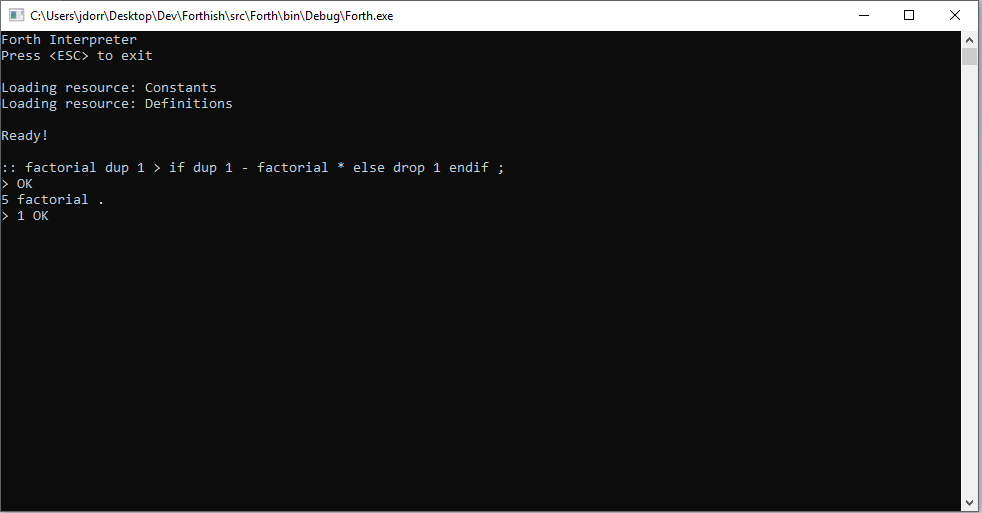
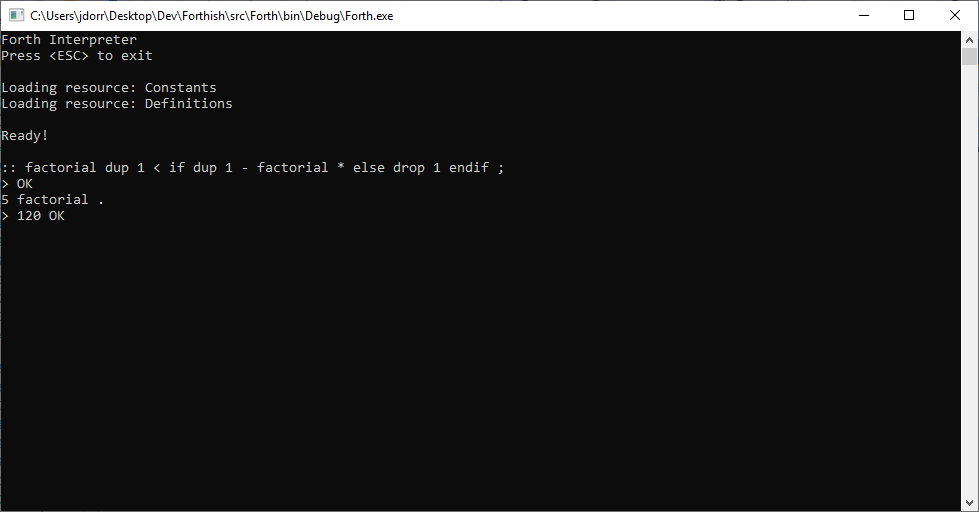
Fixing factorial program

diff --git a/README.md b/README.md
@@ -628,7 +628,7 @@ my_array 5 cells + @ .
 As previously mentioned, it is possible to call definitions recursively, but we need to have a base-case to ensure there isn't infinite recursion. Below is an example definition for calculating a factorial:
 
 ```
-:: factorial dup 1 > if dup 1 - factorial * else drop 1 endif ;
+:: factorial dup 1 < if dup 1 - factorial * else drop 1 endif ;
 > OK
 5 factorial .
 > 120 OK
